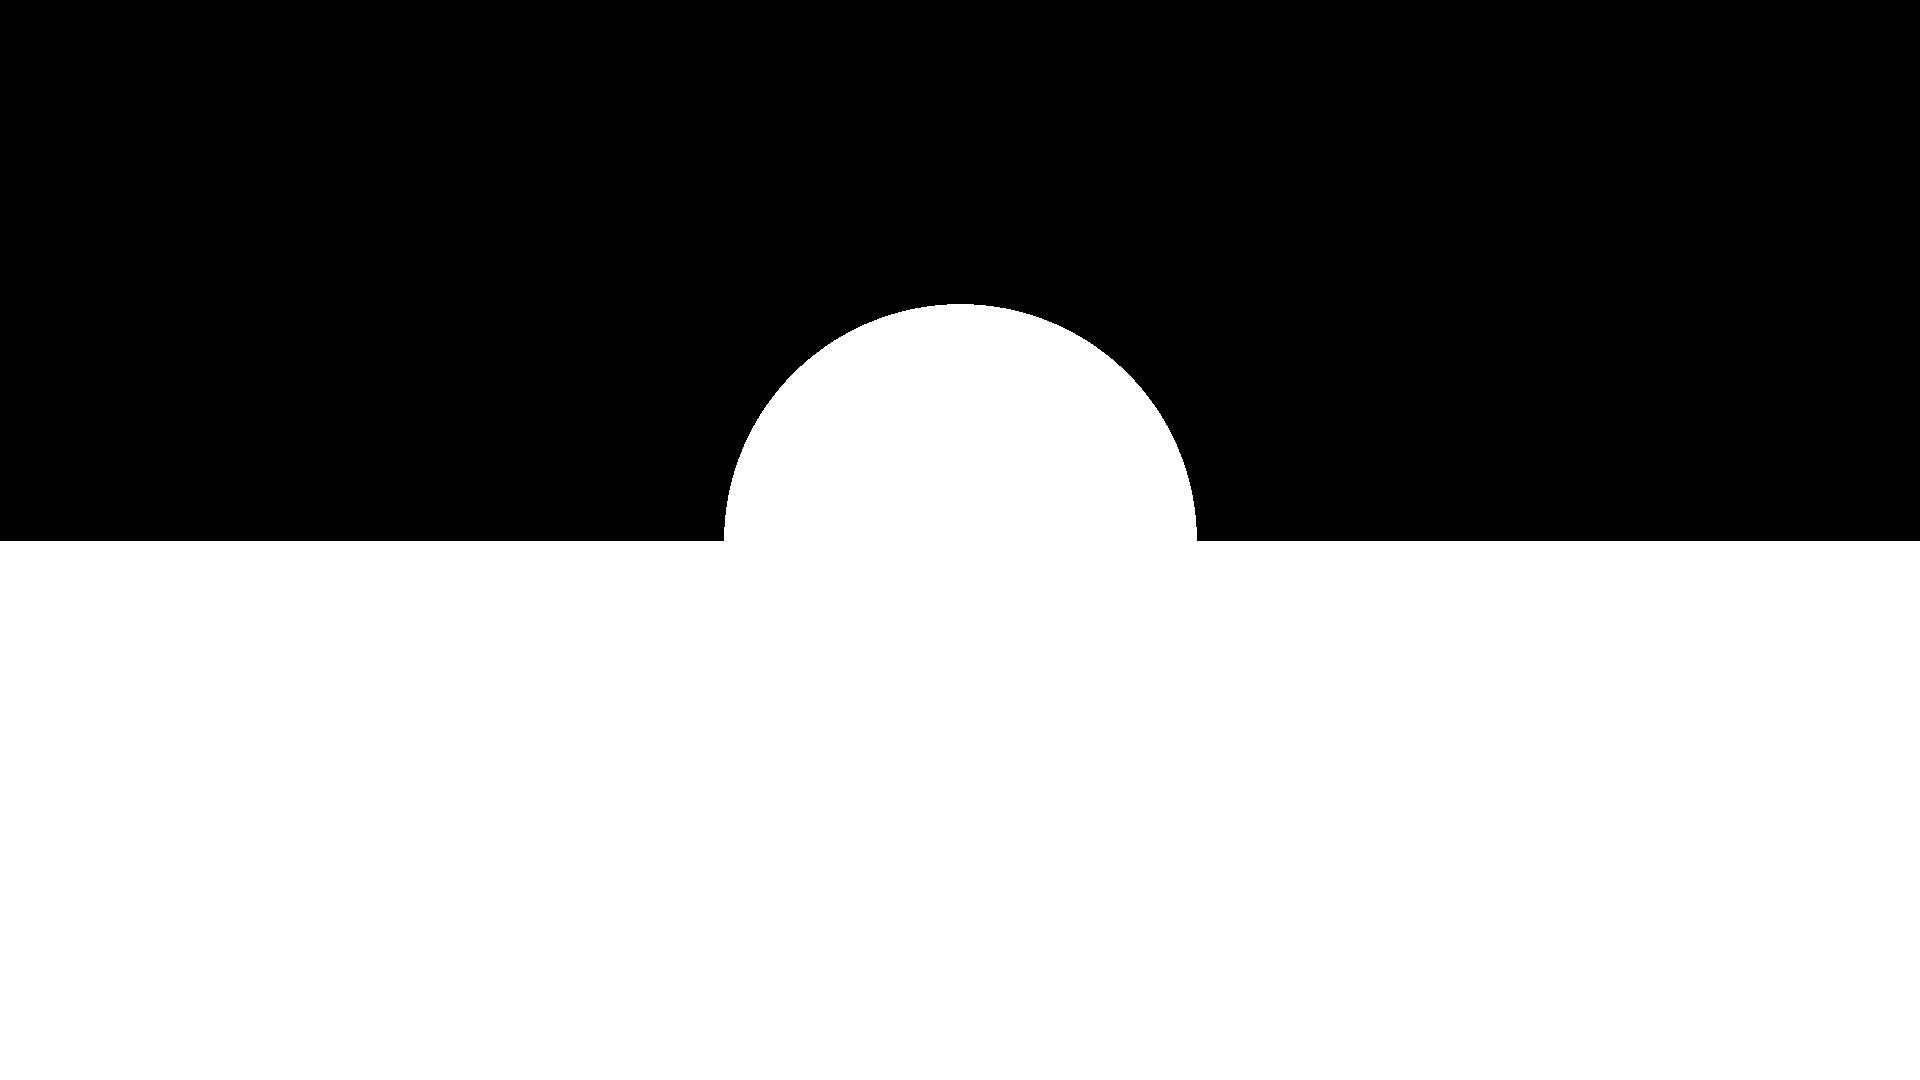
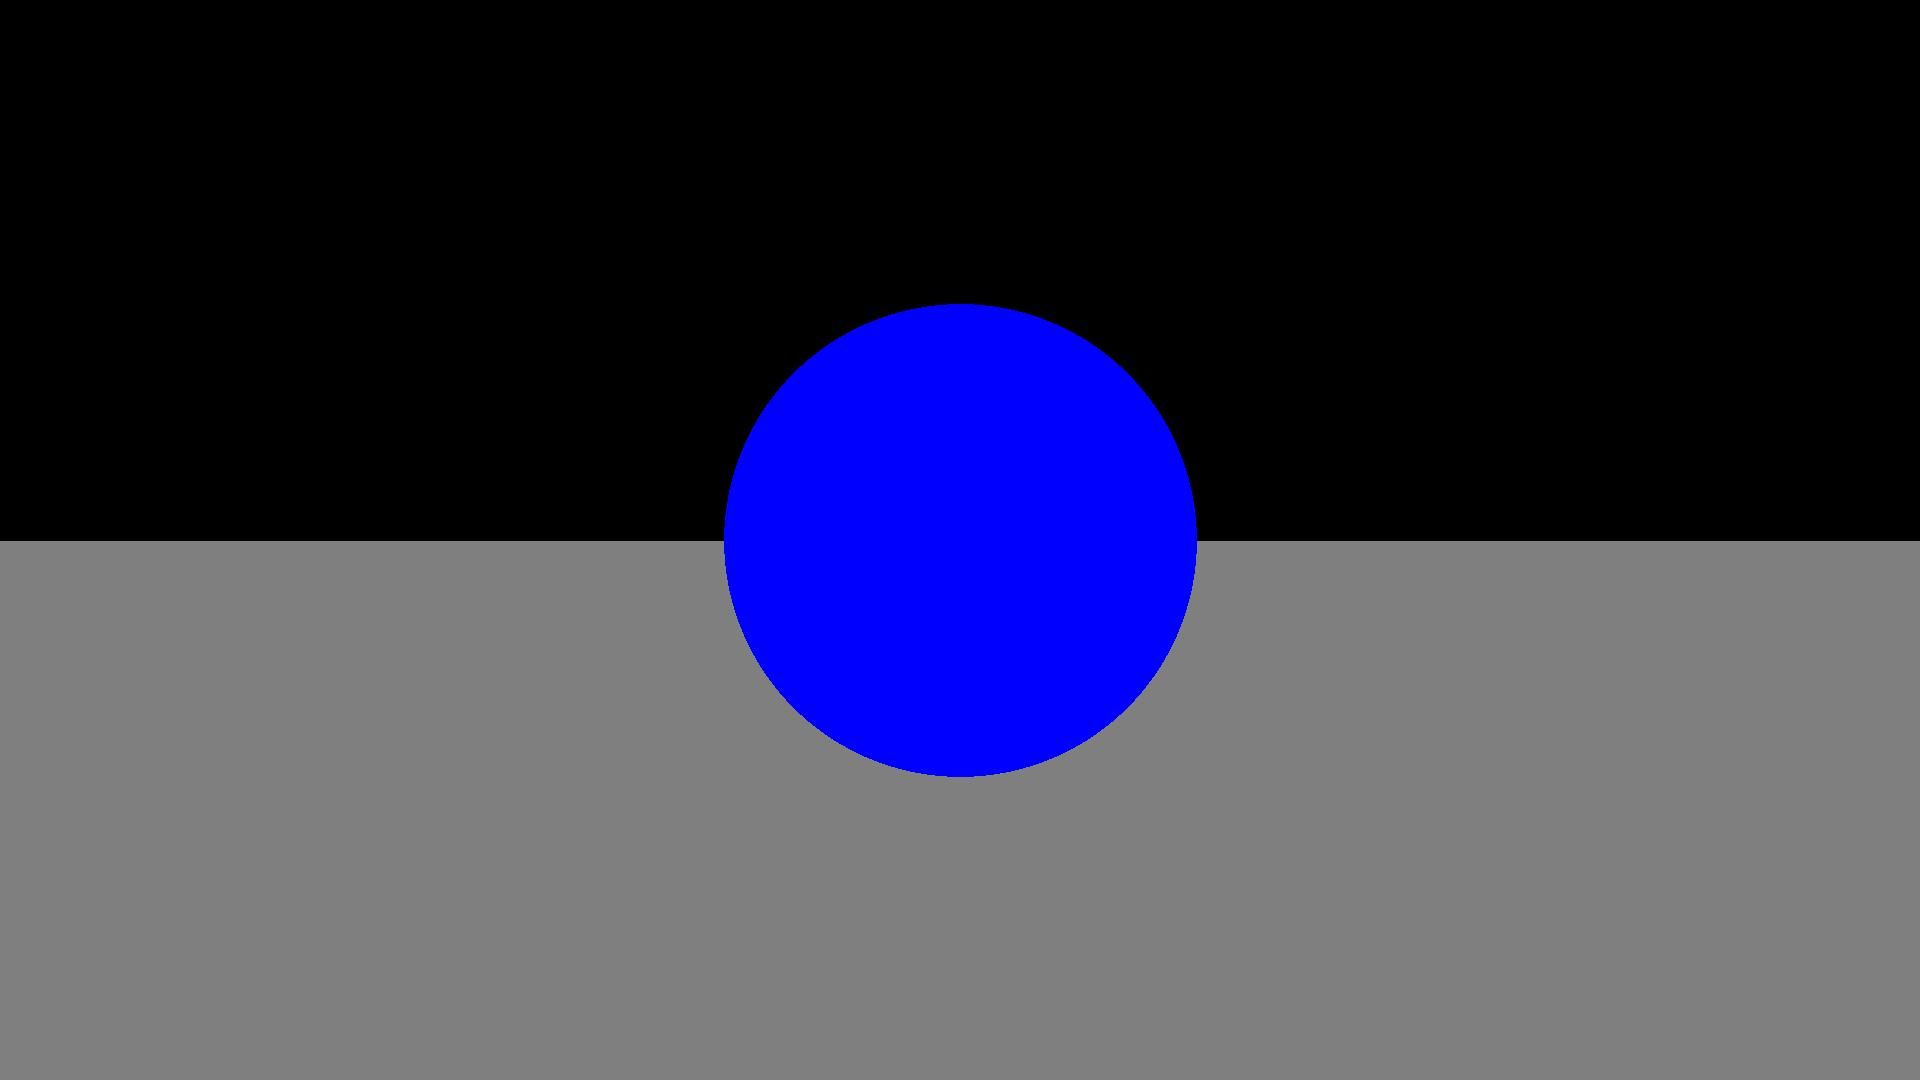
Add colors

diff --git a/color.py b/color.py
@@ -1,0 +1,53 @@
+import numpy as np
+import math
+
+class Color():
+    def __init__(self, r = 0, g = 0, b = 0):
+        self.r = r
+        self.g = g
+        self.b = b
+
+    def gray(w):
+        return Color(w, w, w)
+
+    def unnormalized_gray(w):
+        normalized_w = w / 255
+        return Color(normalized_w, normalized_w, normalized_w)
+
+    # r, g, b from 0 to 255
+    def unnormalized(r, g, b):
+        return Color(r / 255, g / 255, b / 255)
+
+    def clamp(self, min = 0.0, max = 1.0):
+        self.r = self.clamp_component(self.r, min, max)
+        self.g = self.clamp_component(self.g, min, max)
+        self.b = self.clamp_component(self.b, min, max)
+
+    def clamp_component(self, component, min, max):
+        component = math.min(max, component)
+        component = math.max(min, component)
+        return component
+
+    def to_nparray(self):
+        return np.array([self.r, self.g, self.b])
+
+    def __add__(self, other):
+        if not isinstance(other, Color):
+            raise TypeError("Cannot add color with not color")
+
+        return Color(self.r + other.r, self.g + other.g, self.b + other.b)
+
+    def __mul__(self, other):
+        if not isinstance(other, Color):
+            raise TypeError("Cannot multiply color with not color")
+
+        return Color(self.r * other.r, self.g * other.g, self.b * other.b)
+        
+    def red():
+        return Color(1.0, 0.0, 0.0)
+
+    def green():
+        return Color(0.0, 1.0, 0.0)
+
+    def blue():
+        return Color(0.0, 0.0, 1.0)

diff --git a/image.py b/image.py
@@ -1,22 +1,30 @@
+from color import Color
+
 import numpy as np
 import PIL as pil
 from PIL import Image as PILImage
 
 class Image:
-    def __init__(self, width: int, height: int):
+    def __init__(self, width: int, height: int, apply_gamma_correction = True):
         self.width = width
         self.height = height
         self.data = np.zeros((self.height, self.width, 3))
     
-    def put_pixel(self, x: int, y: int, color = [255, 255, 255]):
+    def put_pixel(self, x: int, y: int, color: Color):
         if (x < 0 or x >= self.width):
             raise ValueError("Invalid x")
         if (y < 0 or y >= self.height):
             raise ValueError("Invalid y")
 
-        self.data[y, x] = color
+        self.data[y, x] = color.to_nparray()
 
-    def save(self, filename):
-        print(self.data.shape)
-        img = PILImage.fromarray(np.uint8(self.data))
+    def apply_gamma_correction(self, exposure = 1.0, gamma = 2.2):
+        return np.clip(np.power(self.data * exposure, gamma), 0.0, 1.0)
+
+    def save(self, filename, apply_gamma_correction=False):
+        if apply_gamma_correction:
+            data = self.apply_gamma_correction()
+        else:
+            data = self.data
+        img = PILImage.fromarray(np.uint8(data * 255))
         img.save(filename)

diff --git a/sphere.py b/sphere.py
@@ -2,14 +2,16 @@ from shape import Shape
 from ray import Ray
 from constants import RAY_MIN_DISTANCE
 from intersection import Intersection
+from color import Color
 
 import numpy as np
 import math
 
 class Sphere(Shape):
-    def __init__(self, center: np.ndarray, radius: float):
+    def __init__(self, center: np.ndarray, radius: float, color=Color.unnormalized_gray(255)):
         self.center = center
         self.radius = radius
+        self.color = color
 
     def intersection(self, ray: Ray):
         local_ray = self.translated_ray(ray)
@@ -20,7 +22,7 @@ class Sphere(Shape):
         t = self.best_solution(ts)
         if t is None:
             return None
-        return Intersection(ray, self, t)
+        return Intersection(ray, self, t, self.color)
 
     def quadric_equation_solution(self, a, b, c):
         discriminant = b ** 2 - 4 * a * c

diff --git a/main.py b/main.py
@@ -3,6 +3,7 @@ from scene import Scene
 from sphere import Sphere
 from plane import Plane
 from image import Image
+from color import Color
 
 import numpy as np
 import math
@@ -10,8 +11,8 @@ import math
 from raytrace import ray_trace
 
 scene = Scene()
-scene.add_shape(Plane(np.array([0.0, 0.0, 0.0]), np.array([0.0, 1.0, 0.0])))
-scene.add_shape(Sphere(np.array([0, 1.0, 0]), 1.0))
+scene.add_shape(Plane(np.array([0.0, 0.0, 0.0]), np.array([0.0, 1.0, 0.0]), Color(0.5, 0.5, 0.5)))
+scene.add_shape(Sphere(np.array([0, 1.0, 0]), 1.0, Color.blue()))
 
 image = Image(1920, 1080)
 camera = Camera(np.array([-5.0, 1.0, 0.0]), np.array([0.0, 1.0, 0.0]), 
@@ -19,3 +20,4 @@ camera = Camera(np.array([-5.0, 1.0, 0.0]), np.array([0.0, 1.0, 0.0]),
 
 ray_trace(image, scene, camera)
 image.save("output.jpg")
+image.save("gamma_corrected.jpg", True)

diff --git a/plane.py b/plane.py
@@ -1,14 +1,16 @@
 from shape import Shape
 from intersection import Intersection
 from ray import Ray
+from color import Color
 import numpy as np
 from constants import EPS
 from constants import RAY_MIN_DISTANCE
 
 class Plane(Shape):
-    def __init__(self, position: np.ndarray, normal: np.ndarray):
+    def __init__(self, position: np.ndarray, normal: np.ndarray, color=Color.unnormalized_gray(255)):
         self.position = position
         self.normal = normal
+        self.color = color
 
     def intersection(self, ray: Ray):
         ray_dir_dot_normal = np.dot(ray.direction, self.normal)
@@ -19,4 +21,4 @@ class Plane(Shape):
         if (t < RAY_MIN_DISTANCE):
             return None
      
-        return Intersection(ray, self, t)
+        return Intersection(ray, self, t, self.color)

diff --git a/intersection.py b/intersection.py
@@ -1,12 +1,13 @@
 from ray import Ray
 
 class Intersection:
-    def __init__(self, ray: Ray, shape = None, t: float = None):
+    def __init__(self, ray: Ray, shape = None, t: float = None, color = None):
         self.ray = ray
         self.t = t
         if t is None:
             self.t = ray.max_t
         self.intersected_shape = None
+        self.color = color
 
     def intersected(self):
         return self.intersected_shape != None

diff --git a/raytrace.py b/raytrace.py
@@ -13,4 +13,4 @@ def ray_trace(image: Image, scene: Scene, camera: Camera):
             ray = camera.make_ray(camera_x, camera_y)
             intersection = scene.cast_ray(ray)
             if intersection is not None:
-                image.put_pixel(x, y)
+                image.put_pixel(x, y, intersection.color)
